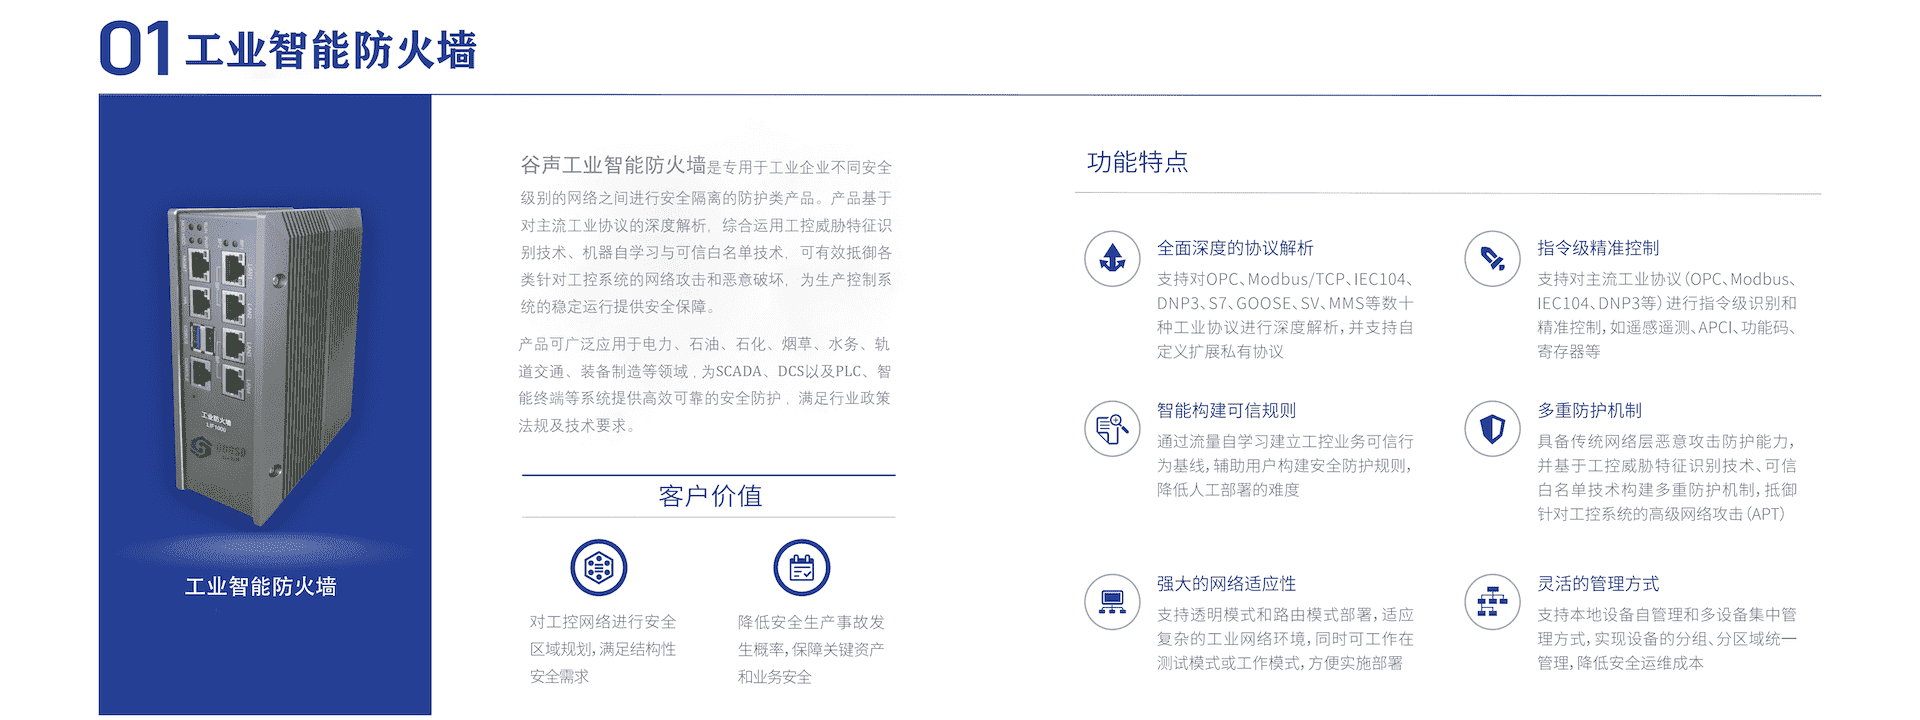
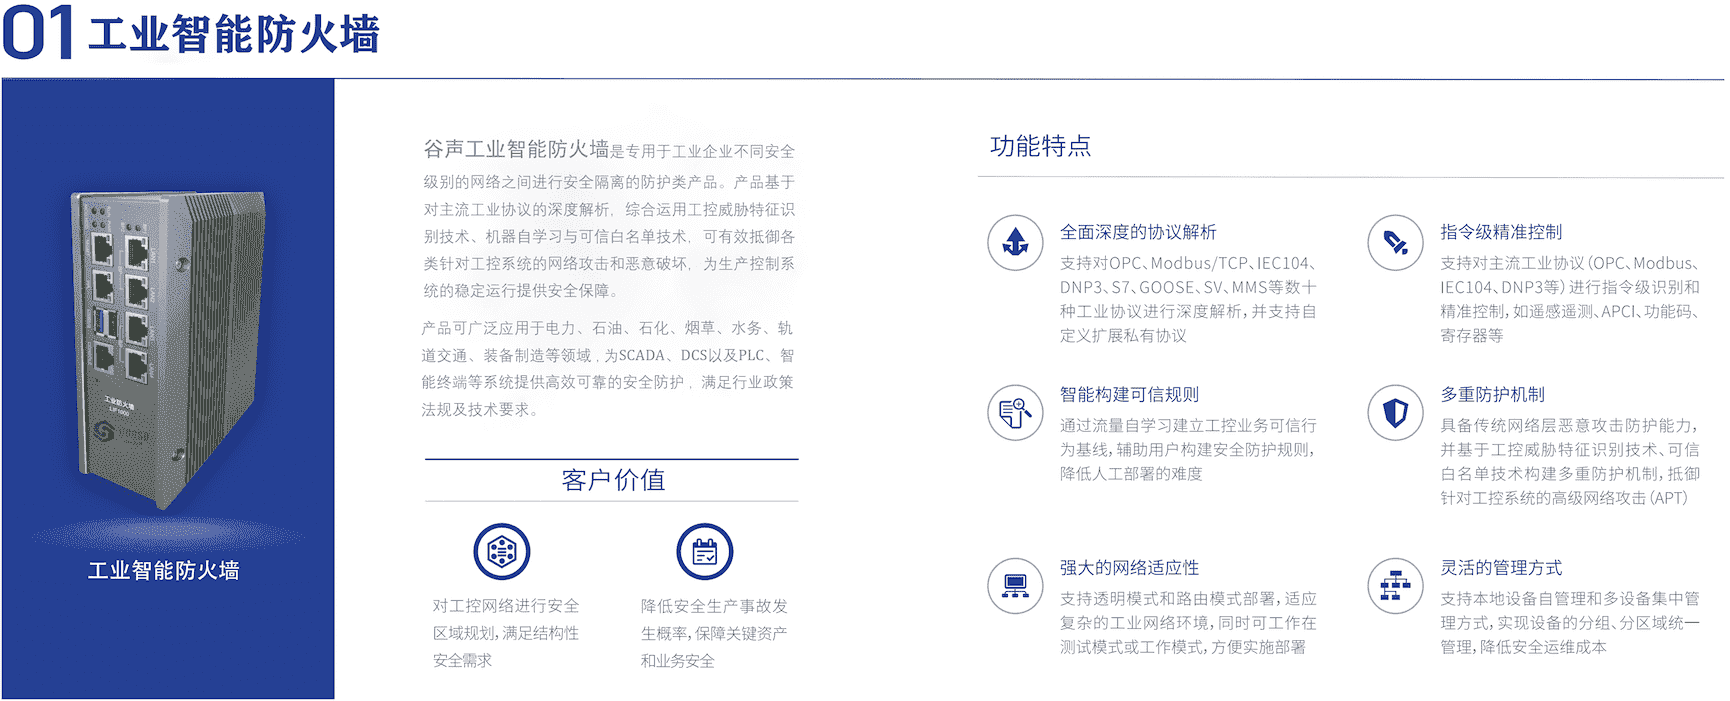
no message

diff --git a/industry.html b/industry.html
@@ -31,17 +31,17 @@
 
             <!-- 产品-->
             <div id="muller">
-                <div class="industry_img"><img src="./images/industry1.png" width="1920"></div>
-                <div class="industry_img"><img src="./images/industry2.png" width="1920"></div>
-                <div class="industry_img"><img src="./images/industry3.png" width="1920"></div>
-                <div class="industry_img"><img src="./images/industry4.png" width="1920"></div>
-                <div class="industry_img"><img src="./images/industry5.png" width="1920"></div>
-                <div class="industry_img"><img src="./images/industry6.png" width="1920"></div>
-                <div class="industry_img"><img src="./images/industry7.png" width="1920"></div>
-                <div class="industry_img"><img src="./images/industry8.png" width="1920"></div>
-                <div class="industry_img"><img src="./images/industry9.png" width="1920"></div>
-                <div class="industry_img"><img src="./images/industry10.png" width="1920"></div>
-                <div class="industry_img"><img src="./images/industry11.png" width="1920"></div>
+                <div class="industry_img"><img src="./images/industry1.png" width="1200"></div>
+                <div class="industry_img"><img src="./images/industry2.png" width="1200"></div>
+                <div class="industry_img"><img src="./images/industry3.png" width="1200"></div>
+                <div class="industry_img"><img src="./images/industry4.png" width="1200"></div>
+                <div class="industry_img"><img src="./images/industry5.png" width="1200"></div>
+                <div class="industry_img"><img src="./images/industry6.png" width="1200"></div>
+                <div class="industry_img"><img src="./images/industry7.png" width="1200"></div>
+                <div class="industry_img"><img src="./images/industry8.png" width="1200"></div>
+                <div class="industry_img"><img src="./images/industry9.png" width="1200"></div>
+                <div class="industry_img"><img src="./images/industry10.png" width="1200"></div>
+                <div class="industry_img"><img src="./images/industry11.png" width="1200"></div>
             </div>
 
             <!-- 底部版权信息 -->

diff --git a/css/style.css b/css/style.css
@@ -67,7 +67,7 @@ div#content {
 }
 
 /* 所有居中的div */
-.flex-caption, div#about, div#industry, div#company, div#product, div#custom_title, div#custom_item, div#map_item {
+.flex-caption, div#about, div#industry, div#company, div#product, div#custom_title, div#custom_item, div#map_item, .industry_img {
     width: 1200px;
     margin: 0 auto;
 }
